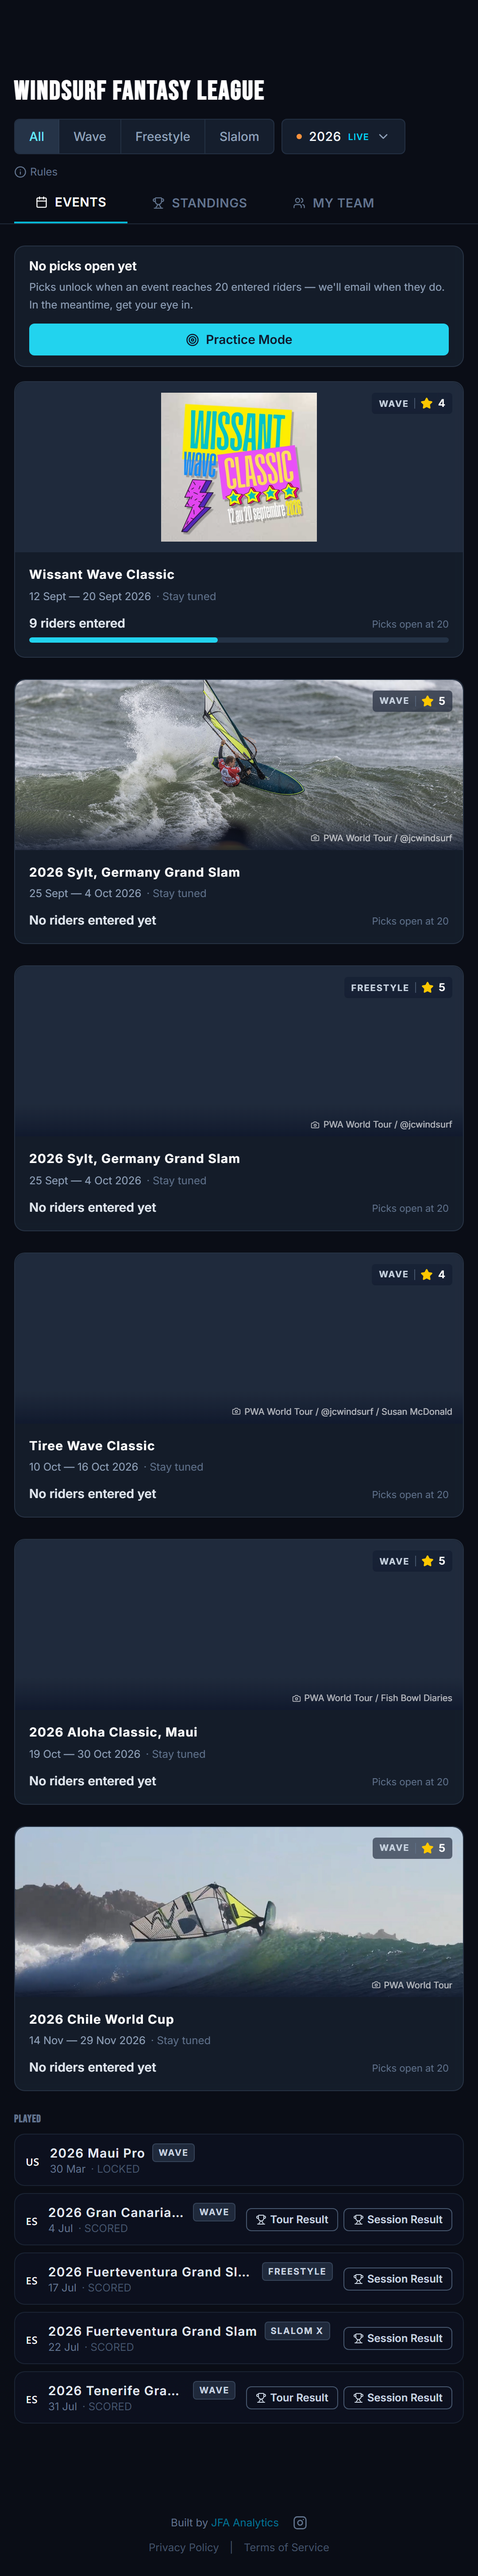
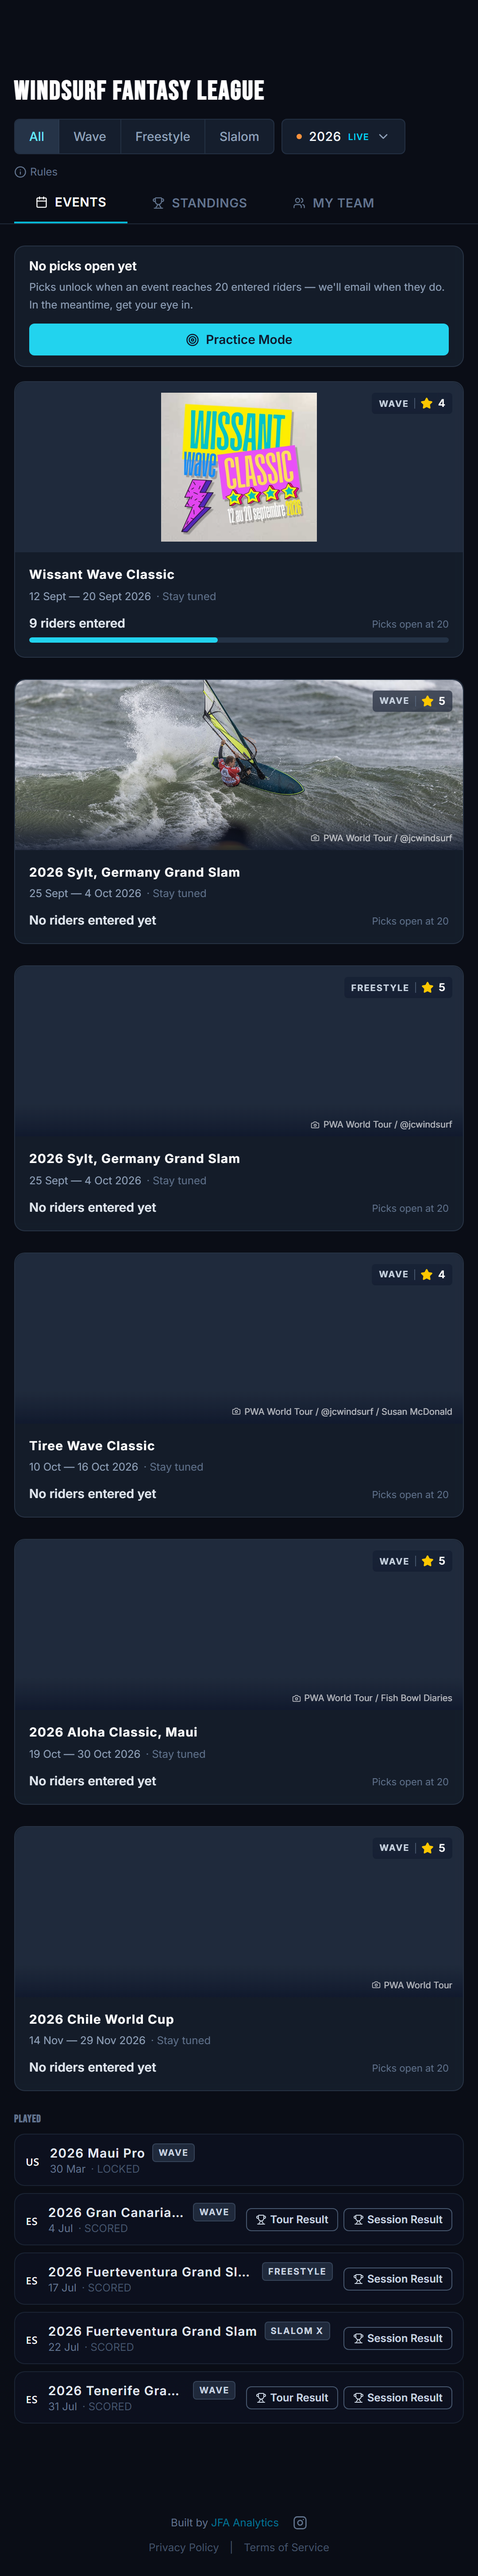
Shoot the whole event card, not just its text column (#10)
Climbing from the title by text stopped at the first wrapper containing "Picks
open at", which on an event card is the inner text column. That cropped out the
event poster and the WAVE / 4-star badge, leaving a card that read as a stray
row rather than Wissant's.

Anchor on the app's own `surface-N` card token instead. It is a design-system
class rather than a Tailwind utility, so it marks a real card boundary; the
text climb stays as the fallback for regions with no card surface.

Refs #10

Changed region(s): [[0.0306, 0.6851, 0.9778, 0.7786]]

diff --git a/pipeline/screen_shots.py b/pipeline/screen_shots.py
@@ -81,12 +81,39 @@ def _clip_between(page, top, bottom, pad: int = 16) -> dict | None:
     return {"x": 0, "y": max(0, y), "width": width, "height": height}
 
 
+def _surface_box(page, locator, pad: int = 12) -> dict | None:
+    """Document-space box of the nearest enclosing card surface.
+
+    `surface-N` is the app's own card token rather than a Tailwind utility, so
+    it marks a real card boundary. That matters here: climbing by text stops at
+    the first wrapper holding the copy, which on an event card is the inner text
+    column — it cuts off the star-rating badge and the image above it.
+    """
+    handle = locator.element_handle()
+    if handle is None:
+        return None
+    return page.evaluate(
+        """([el, pad]) => {
+            const card = el.closest('[class*="surface-"]');
+            if (!card) return null;
+            const r = card.getBoundingClientRect();
+            return {
+                x: Math.max(0, r.left - pad),
+                y: Math.max(0, r.top + window.scrollY - pad),
+                width: Math.min(document.documentElement.clientWidth, r.width + pad * 2),
+                height: r.height + pad * 2,
+            };
+        }""",
+        [handle, pad],
+    )
+
+
 def _enclosing_box(page, locator, must_contain: str, pad: int = 12) -> dict | None:
     """Document-space box of the nearest ancestor whose text contains a phrase.
 
-    Cards are unlabelled Tailwind divs of unpredictable depth, so "go up N
-    parents" is a guess that breaks on the next markup change. Climbing until
-    the wanted copy is in scope is stable against that.
+    For regions with no card surface to anchor on. Cards are unlabelled Tailwind
+    divs of unpredictable depth, so "go up N parents" is a guess that breaks on
+    the next markup change; climbing until the wanted copy is in scope does not.
     """
     handle = locator.element_handle()
     if handle is None:
@@ -134,17 +161,18 @@ def _capture_hub(page, out_dir: str) -> None:
         box = _enclosing_box(page, status, "Practice Mode", pad=20)
         _shoot(page, f"{out_dir}/hub_gate.png", box)
 
-    # The entry count is the reason to shoot a card at all, so the clip has to
-    # reach the "N riders entered / Picks open at 20" line. Climb from the title
-    # until an ancestor actually contains that copy rather than guessing a depth.
+    # Shoot the whole card surface: discipline and star-rating badge, event
+    # image, title, dates, and the "N riders entered / Picks open at 20" line
+    # with its progress bar. The entry count is the point, but the badge and
+    # image are what make it read as the event's card rather than a stray row.
     for event in FOUR_STAR_EVENTS:
         title = page.get_by_text(re.compile(event["slug"], re.I)).first
         if not title.count():
             print(f"  no hub card for {event['slug']}")
             continue
-        box = _enclosing_box(page, title, "Picks open at")
+        box = _surface_box(page, title, pad=8) or _enclosing_box(page, title, "Picks open at", pad=28)
         if not box:
-            print(f"  no entry-count line on the {event['slug']} card")
+            print(f"  could not locate the {event['slug']} card")
             continue
         _shoot(page, f"{out_dir}/hub_card_{event['slug']}.png", box)
 
